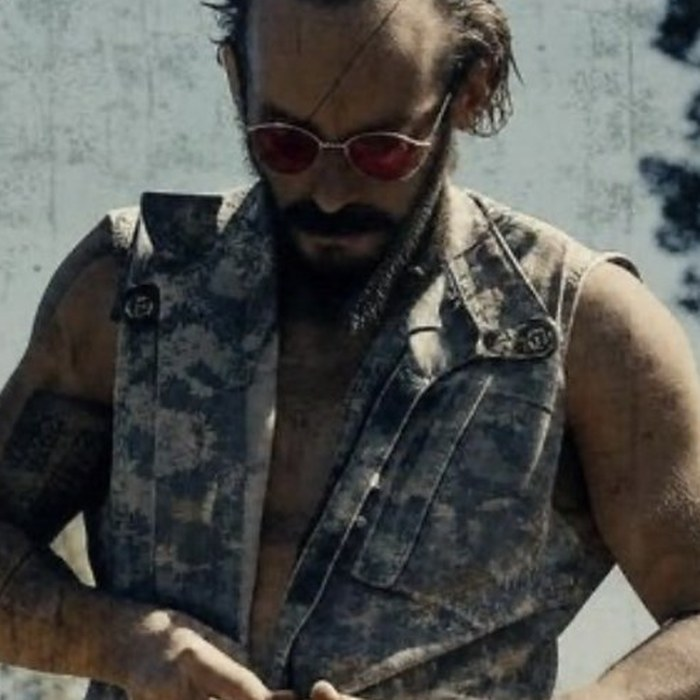
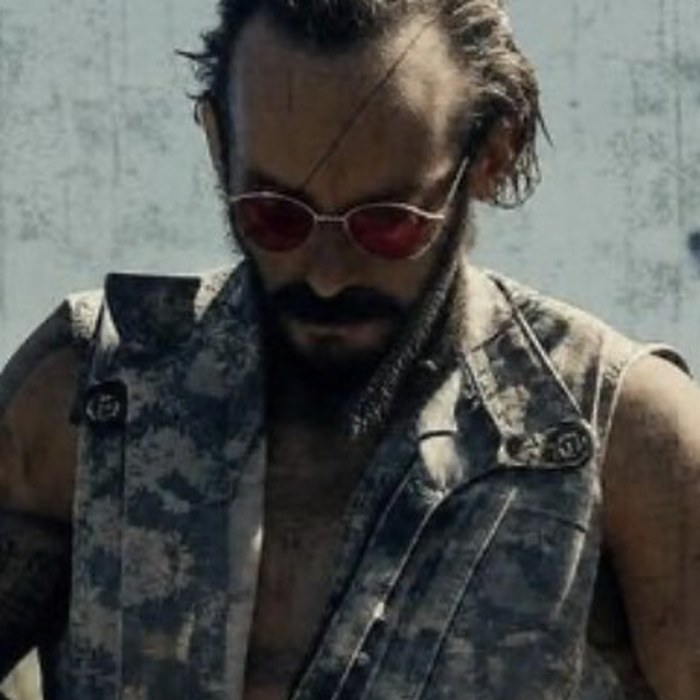
Remove photo blur; adjust Paul + Francis crops; market POS live

diff --git a/index.html b/index.html
@@ -302,13 +302,6 @@ h2{font-family:'Fraunces',serif;font-weight:420;font-size:clamp(34px,4.6vw,58px)
   transition:transform .6s cubic-bezier(.2,.7,.2,1);
 }
 .person:hover .face img{transform:scale(1.045)}
-.face::after{
-  content:"";position:absolute;left:0;right:0;bottom:0;height:34%;pointer-events:none;
-  -webkit-backdrop-filter:blur(9px);backdrop-filter:blur(9px);
-  -webkit-mask-image:linear-gradient(to bottom, transparent, black 78%);
-  mask-image:linear-gradient(to bottom, transparent, black 78%);
-  background:linear-gradient(to top, rgba(14,24,17,.55), transparent 75%);
-}
 .person h3,.person .role,.person .bio,.person .socials,.person .bio-hint{padding-left:16px;padding-right:16px}
 .person h3{font-family:'Fraunces',serif;font-weight:520;font-size:23px;letter-spacing:.01em}
 .person .role{font-family:'Yellowtail',cursive;color:var(--gold);font-size:19px;margin:2px 0 10px}
@@ -786,7 +779,7 @@ const SUPPORT_CARDS = [
       {photo: "assets/keyna_sq.jpg", pos: "50% 40%", alt: "Keyna Aguilar"},
     ],
     blurb: "Every sat goes to Estela and Keyna's Eco Feria, the market at the heart of the jungle.",
-    pos: null,
+    pos: "https://btcpayserver.bitcoinjungle.app/apps/2PLC8JWoNL7eKVrtequSwqCzcm5R/pos",
   },
   {
     title: "Support the Filmmakers",